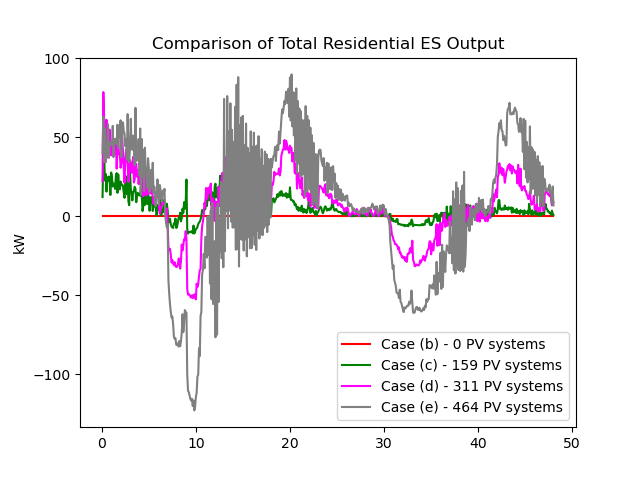
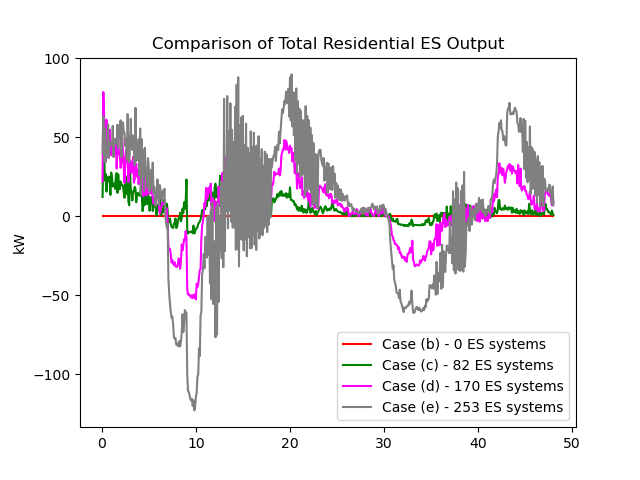
Update ES plot with correct legend text

Changed region(s): [[0.5938, 0.6875, 0.875, 0.875]]

diff --git a/src/tesp_support/tesp_support/validation_plots.py b/src/tesp_support/tesp_support/validation_plots.py
@@ -128,7 +128,7 @@ def load_data():
 
     logger.info('Loading processed metrics data')
     data = {}
-    cases = ['a', 'b']
+    cases = ['a', 'b', 'c', 'd', 'e']
     for case in cases:
         data[case] = {}
 
@@ -567,14 +567,14 @@ def plot_ES_output(data):
                 e_hrs = data['e']['gld']['hrs']
                 e_battery_kw = data['e']['gld']['battery_kw']
 
-                plt.plot(b_hrs, b_battery_kw, color='red', label='Case (b) - 0 PV '
-                                                              'systems')
-                plt.plot(c_hrs, c_battery_kw, color='green', label='Case (c) - 159 PV '
-                                                                'systems')
-                plt.plot(d_hrs, d_battery_kw, color='magenta', label='Case (d) - 311 '
-                                                                    'PV systems')
-                plt.plot(e_hrs, e_battery_kw, color='gray', label='Case (e) - 464 PV '
-                                                                'systems')
+                plt.plot(b_hrs, b_battery_kw, color='red', label='Case (b) - 0 ES '
+                                                        'systems')
+                plt.plot(c_hrs, c_battery_kw, color='green', label='Case (c) - 82 ES '
+                                                        'systems')
+                plt.plot(d_hrs, d_battery_kw, color='magenta', label='Case ('
+                                                        'd) - 170 ES systems')
+                plt.plot(e_hrs, e_battery_kw, color='gray', label='Case (e) '
+                                                        '- 253 ES systems')
                 plt.ylabel('kW')
                 plt.title('Comparison of Total Residential ES Output')
                 plt.legend(loc='lower right')
